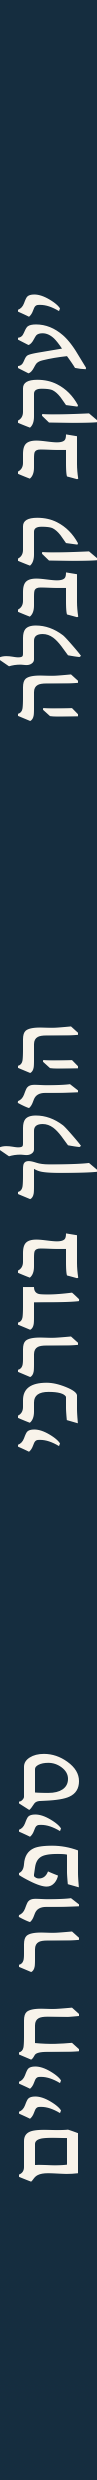
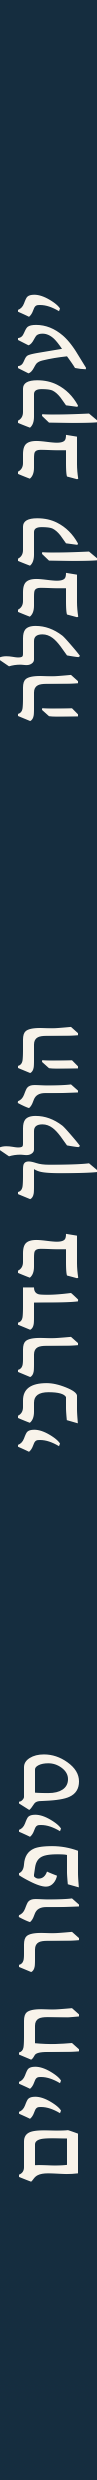
Spine viewer: further reduce spine font (-2px soft, -4px hard total); cache-bust v=5

diff --git a/index.html b/index.html
@@ -629,7 +629,7 @@
     <button id="spineClose" onclick="closeSpine()" title="סגור" aria-label="סגור">
       <svg viewBox="0 0 24 24" width="18" height="18"><path d="M6 6l12 12M18 6 6 18"/></svg>
     </button>
-    <div id="spineStage"><img id="spineImg" src="images/spines/woodfree180gsm_hardcover.png?v=4" alt="שדרת הספר"/></div>
+    <div id="spineStage"><img id="spineImg" src="images/spines/woodfree180gsm_hardcover.png?v=5" alt="שדרת הספר"/></div>
     <div id="spineControls">
       <div id="spineTypeSel" class="spine-seg">
         <button type="button" class="spine-seg-btn on" data-type="hardcover" onclick="setSpineType('hardcover')">כריכה קשה</button>
@@ -1539,7 +1539,7 @@ function renderSpine() {
   var paper = document.getElementById('spinePaperSel').value;
   var info = SPINE_PAPER_MM[paper];
   var img = document.getElementById('spineImg');
-  img.src = 'images/spines/' + paper + '_' + spineType + '.png?v=4';
+  img.src = 'images/spines/' + paper + '_' + spineType + '.png?v=5';
   var typeHeb = spineType === 'hardcover' ? 'כריכה קשה' : 'כריכה רכה';
   var mm = info[spineType];
   document.getElementById('spineCaption').textContent =
